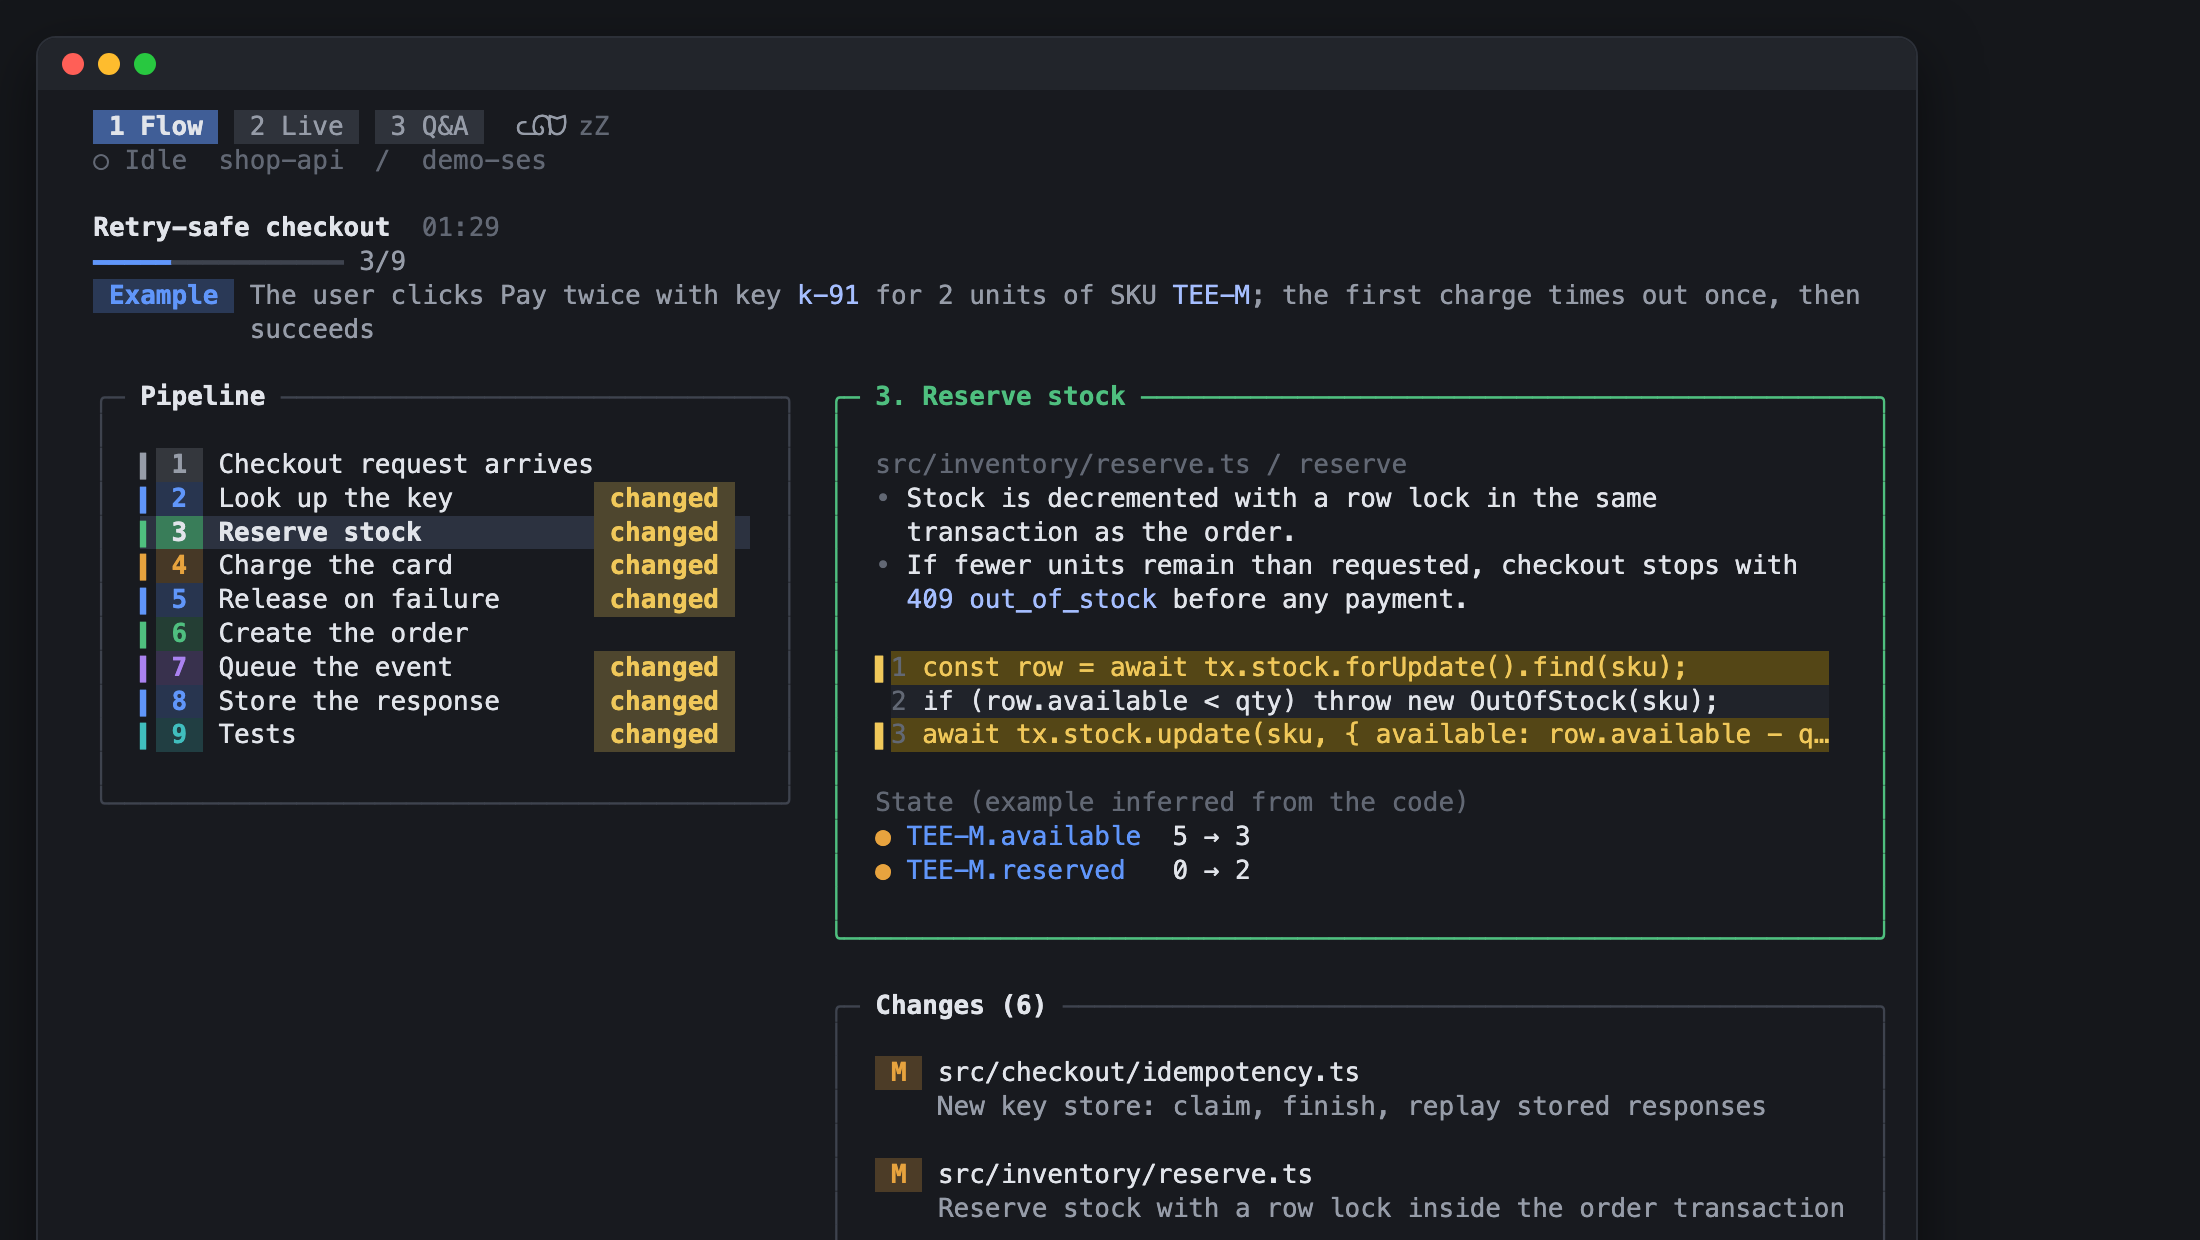
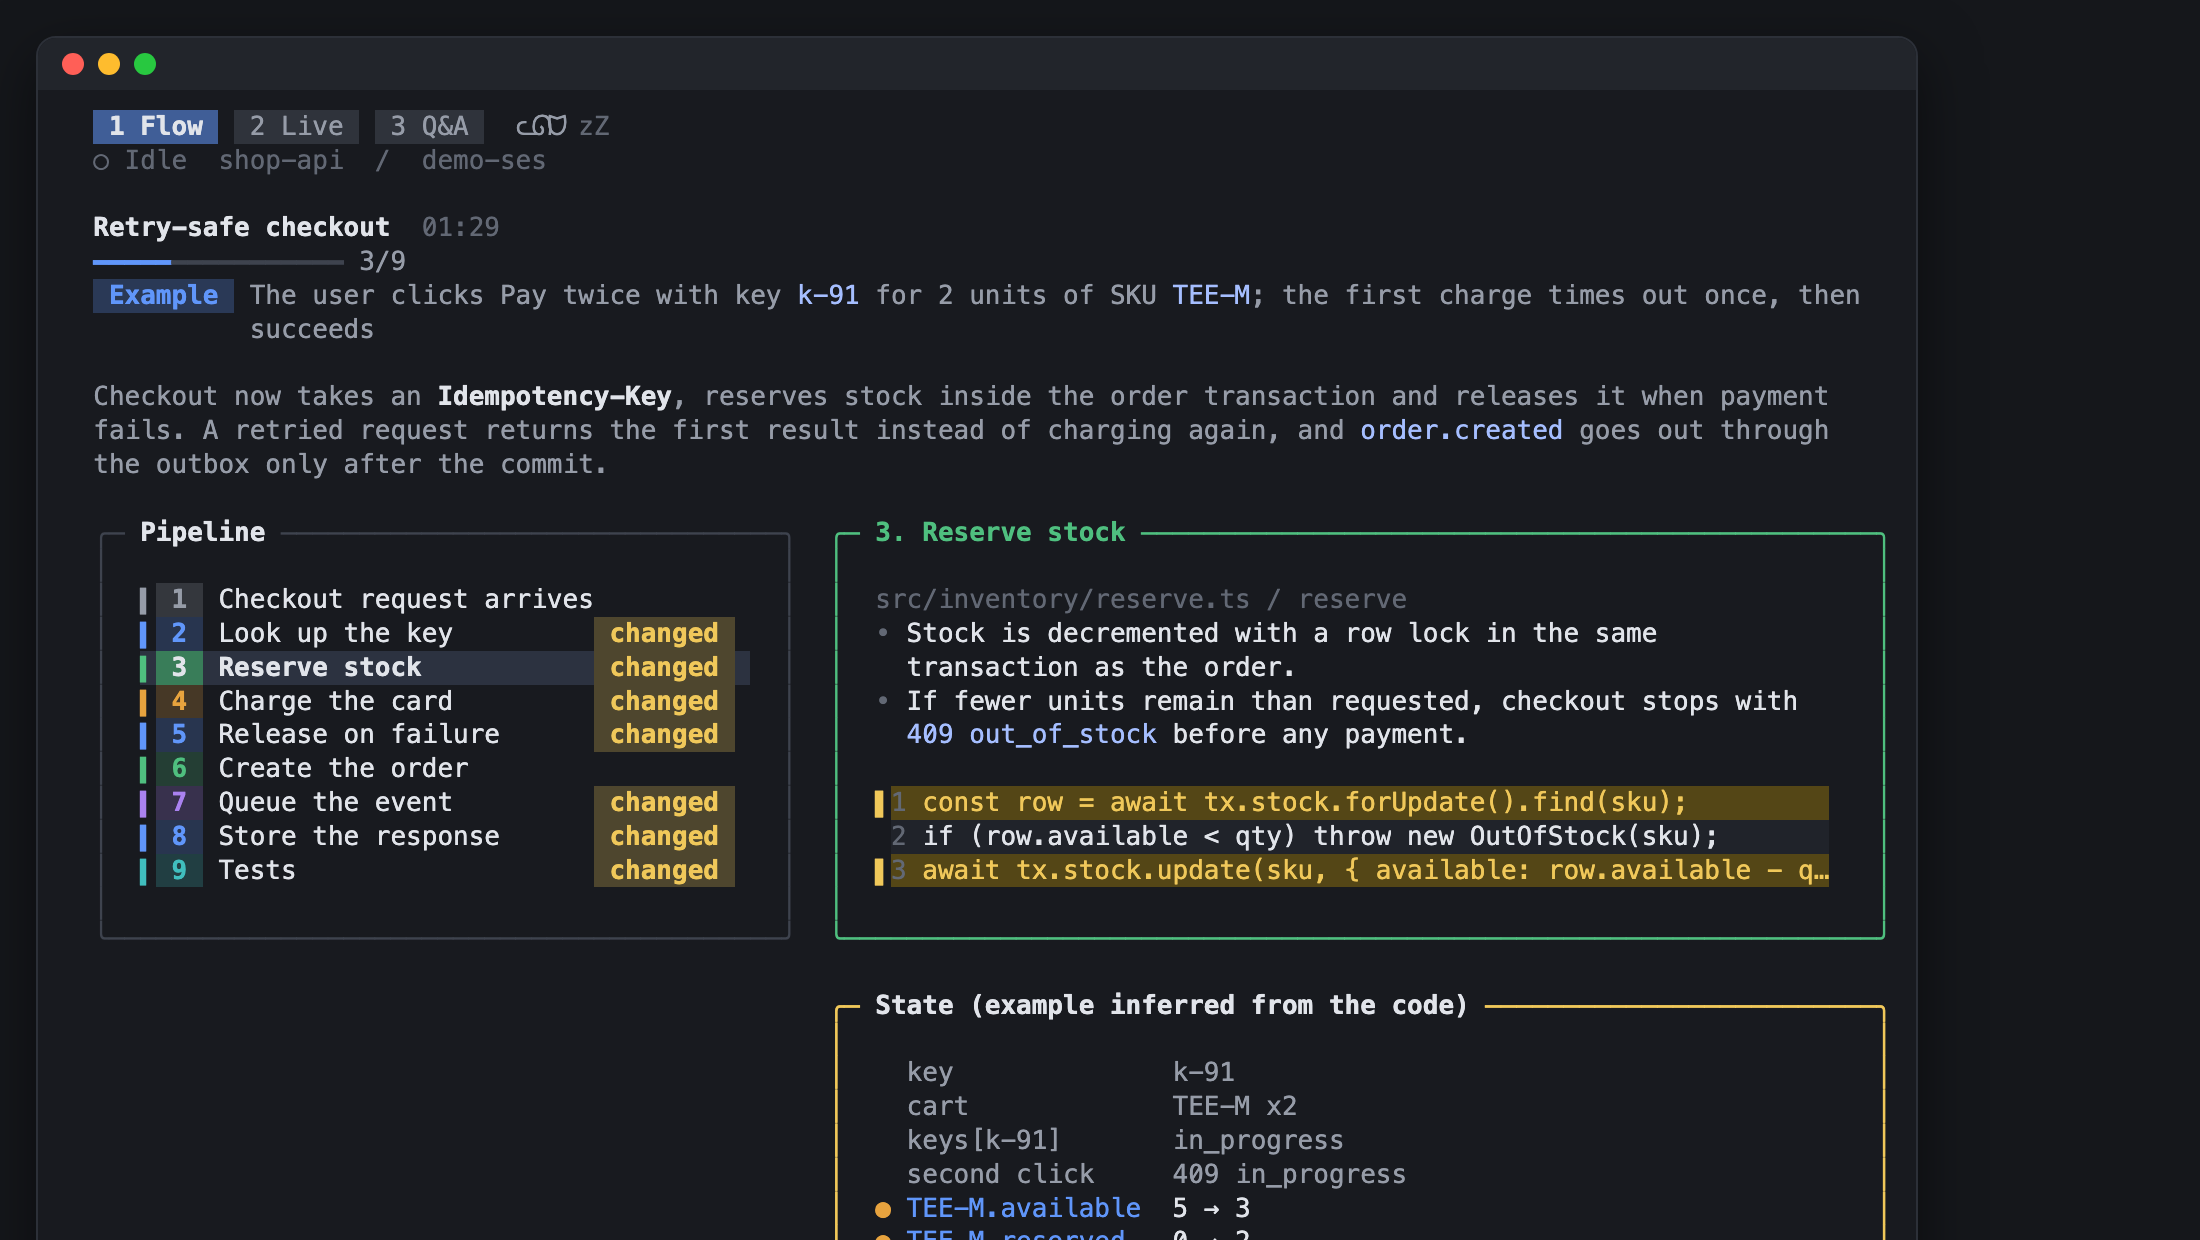
Terminal Flow: summary at the top, state as its own box with every traced value, bold next to Korean text
Claude-Session: https://claude.ai/code/session_0121ovcFUkEhWW55jjw4PbtV

Changed region(s): [[0.0309, 0.3065, 0.8345, 0.7355], [0.3709, 0.7968, 0.8345, 1.0], [0.6491, 0.8887, 0.8036, 0.9194]]

diff --git a/src/side_insights/live/views.py b/src/side_insights/live/views.py
@@ -234,19 +234,25 @@ def _code(s, cols):
     return out
 
 
-def _state(s, cols, pane):
-    data = s.get("data") or []
-    if not data:
-        return []
-    name_w = min(max(width(d.get("name") or "") for d in data), cols // 3)
-    out = [paint(fit(t("state_title", pane=pane), cols).rstrip(), FAINT)]
-    for d in data:
-        before = d.get("before")
-        moved = before not in (None, "", d.get("after"))
-        value = f"{before} → {d.get('after')}" if moved else str(d.get("after"))
-        dot = paint("●", ORANGE) if moved else " "
-        out.append(f"{dot} {paint(fit(d.get('name') or '', name_w), BLUE)}  {paint(fit(value, cols - name_w - 4).rstrip(), TEXT)}")
-    return out
+def _state_box(steps, step, cols, pane):
+    """Every traced value up to this step, newest value per name; the ones this step changed are marked."""
+    values = {}
+    for i, s in enumerate(steps[:step + 1]):
+        for d in s.get("data") or []:
+            values[d.get("name") or ""] = (d, i == step)
+    inner = inner_width(cols)
+    if not values:
+        body = [paint(fit(t("state_empty", pane=pane), inner).rstrip(), FAINT)]
+    else:
+        name_w = min(max(width(name) for name in values), inner // 3)
+        body = []
+        for name, (d, now) in values.items():
+            before = d.get("before")
+            moved = now and before not in (None, "", d.get("after"))
+            value = f"{before} → {d.get('after')}" if moved else str(d.get("after"))
+            dot = paint("●", ORANGE) if now else " "
+            body.append(f"{dot} {paint(fit(name, name_w), BLUE if now else MUTED)}  {paint(fit(value, inner - name_w - 4).rstrip(), TEXT if now else MUTED)}")
+    return box(body, cols, YELLOW if any(now for _, now in values.values()) else LINE, paint(t("state_title", pane=pane), TEXT, bold=True))
 
 
 def _flow_cards(st, rec, flow, tick, cols):
@@ -299,6 +305,8 @@ def flow_lines(st, step, tick, cols):
         label = badge(t("example_label", pane=pane), BLUE)
         example = styled(flow["example"], cols, MUTED, indent=visible_width(label) + 1)
         lines += [label + " " + example[0].lstrip(" "), *example[1:]]
+    if flow.get("summary"):
+        lines += ["", *styled(flow["summary"], cols, MUTED)]
     wide = cols >= WIDE_COLS
     pipe_w, detail_w = _split(cols) if wide else (cols, cols)
     pipeline = box(_pipeline(steps, step, inner_width(pipe_w), pane), pipe_w, LINE, paint(t("pipeline", pane=pane), TEXT, bold=True))
@@ -309,11 +317,9 @@ def flow_lines(st, step, tick, cols):
         inner = inner_width(detail_w)
         body = [paint(fit(s.get("location") or "", inner).rstrip(), FAINT), *bullets(s.get("explanation"), inner)]
         code = _code(s, inner)
-        state = _state(s, inner, pane)
-        body += ([""] + code if code else []) + ([""] + state if state else [])
+        body += [""] + code if code else []
         detail = box(body, detail_w, color, paint(f"{step + 1}. {s.get('title') or ''}", color, bold=True))
+        detail += [""] + _state_box(steps, step, detail_w, pane)
     detail += _flow_cards(st, rec, flow, tick, detail_w)
     lines += [""] + (_side_by_side(pipeline, detail, pipe_w) if wide else pipeline + [""] + detail)
-    if flow.get("summary"):
-        lines += ["", *styled(flow["summary"], cols, MUTED)]
     return lines, step

diff --git a/src/side_insights/live/term.py b/src/side_insights/live/term.py
@@ -6,7 +6,7 @@ RESET, BOLD = "\033[0m", "\033[1m"
 ANSI = re.compile(r"\033\[[0-9;]*m")
 BULLET = re.compile(r"^[-•*]\s+")
 NO_LINE_START = set("。、，．）」』】！？ー.,)!?:;")
-MARKUP = re.compile(r"==(.+?)==|(?<![\w/*])\*\*(?=\S)(.+?)(?<=\S)\*\*(?![\w/*])|`([^`]+)`")
+MARKUP = re.compile(r"==(.+?)==|(?<![A-Za-z0-9_/*])\*\*(?=\S)(.+?)(?<=\S)\*\*(?![A-Za-z0-9_/*])|`([^`]+)`")
 CONTROL = re.compile(r"[\x00-\x08\x0b-\x1f\x7f-\x9f]")
 TAB_SIZE = 4
 PAD_X = 2
